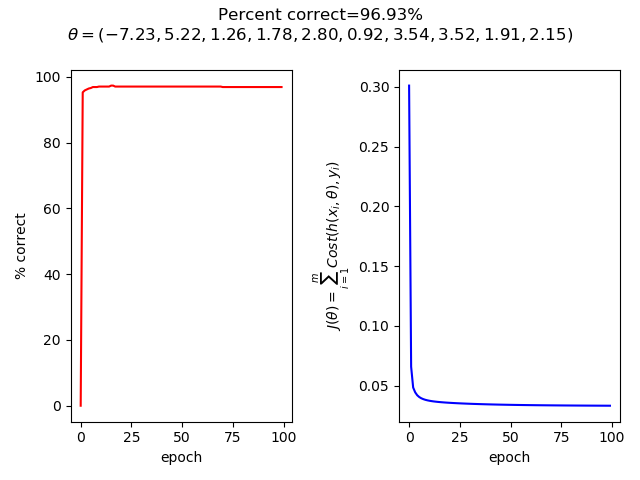
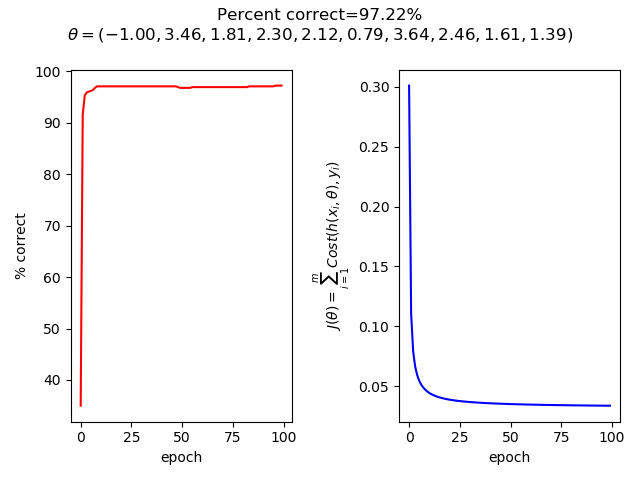
Update files and results.

diff --git a/logregression.py b/logregression.py
@@ -89,6 +89,31 @@ def add_bias_variable(data):
     data['name_to_idx'] = name_to_idx
 
 
+def unit_normalize(data_rows):
+    n = len(data_rows)
+    d = len(data_rows[0])
+
+    ranges = [(mni, mxi - mni) for mxi, mni in zip(
+        [max(data_rows[i][j] for i in range(n)) for j in range(d)],
+        [min(data_rows[i][j] for i in range(n)) for j in range(d)])]
+
+    for i in range(n):
+        for j in range(d):
+            data_rows[i][j] = (data_rows[i][j] - ranges[j][0]) / ranges[j][1]
+
+
+def standardize(data_rows):
+    n = len(data_rows)
+    d = len(data_rows[0])
+
+    mean = [sum([data_rows[i][j] for i in range(0, n)]) / n for j in range(0, d)]
+    variance = [sum([(data_rows[i][j] - mean[j]) ** 2 for i in range(0, n)]) / (n - 1) for j in range(0, d)]
+
+    for i in range(n):
+        for j in range(d):
+            data_rows[i][j] = (data_rows[i][j] - mean[j]) / variance[j]
+
+
 def plot_simple_two_dimensional(log_reg_results, data, class_labels, plot_config):
     fig, subplots = mplpyplot.subplots(1, 3)
     fig.set_size_inches(4 * 2, 3, forward=True)
@@ -153,7 +178,6 @@ def plot_simple_two_dimensional(log_reg_results, data, class_labels, plot_config
                  + '%\n' + '$\\theta=(' + ','.join(['%0.2f' % theta_j for theta_j in final_theta]) + ')$')
 
     fig.savefig(plot_config['output_file_prefix'] + str(int(round(time.time() * 1000))) + ".png")
-
     fig.show()
 
 
@@ -164,7 +188,6 @@ def construct_error_plot(epoch, error_plot, logistic_total_costs):
 
 
 def construct_accuracy_plot(accuracy_plot, epoch, percent_corrects):
-
     accuracy_plot.plot(epoch, percent_corrects, marker='', linestyle='-', color='red')
     accuracy_plot.set_xlabel('epoch')
     accuracy_plot.set_ylabel('% correct')
@@ -228,24 +251,13 @@ def plot_multi_dimensional(log_reg_results, data, class_labels, plot_config):
     accuracy_cost_figure.tight_layout()
     accuracy_cost_figure.subplots_adjust(top=0.855)
     accuracy_cost_figure.suptitle('Percent correct='
-                 + '%0.2f' % (percent_corrects[-1:][0])
-                 + '%\n' + '$\\theta=(' + ','.join(['%0.2f' % theta_j for theta_j in final_theta]) + ')$')
+                                  + '%0.2f' % (percent_corrects[-1:][0])
+                                  + '%\n' + '$\\theta=(' + ','.join(
+        ['%0.2f' % theta_j for theta_j in final_theta]) + ')$')
 
-    accuracy_cost_figure.savefig(plot_config['output_file_prefix'] + '-accuracycost-' + str(int(round(time.time() * 1000))) + ".png")
+    accuracy_cost_figure.savefig(
+        plot_config['output_file_prefix'] + '-accuracycost-' + str(int(round(time.time() * 1000))) + ".png")
     accuracy_cost_figure.show()
-
-
-def unit_normalize(data_rows):
-    n = len(data_rows)
-    d = len(data_rows[0])
-
-    ranges = [(mni, mxi - mni) for mxi, mni in zip(
-        [max(data_rows[i][j] for i in range(n)) for j in range(d)],
-        [min(data_rows[i][j] for i in range(n)) for j in range(d)])]
-
-    for i in range(n):
-        for j in range(d):
-            data_rows[i][j] = (data_rows[i][j] - ranges[j][0]) / ranges[j][1]
 
 
 def main():

diff --git a/README.md b/README.md
@@ -116,7 +116,7 @@ I generated some simple two dimensional data that was linearly seperable (see 2d
 ![results](results/2d_2.png "2D Example 2")
 
 ## Wisconsin Breast Cancer Data (Original)
-The [wisconsin breast cancer data set](https://archive.ics.uci.edu/ml/datasets/breast+cancer+wisconsin+(original)) is a well known data set in the machine learning literature, and has been used by several authors when [evaluating a logistic regression](https://www.kaggle.com/zzero0/logisticregression-on-breast-cancer-dataset). In hindsight this data set is not particularly suited to logistic regression (the values in the data are more ordinal in nature, and not real values). The results presented here show the raw data including a histogram of each dimension of the data, and a scatter plot for each pair of dimensions. In the scatter plot red/green dots show the two class labels, and the relative saturation of the data point gives some idea of frequency.
+The [wisconsin breast cancer data set](https://archive.ics.uci.edu/ml/datasets/breast+cancer+wisconsin+(original)) is a well known data set in the machine learning literature, and has been used by several authors when [evaluating a logistic regression](https://www.kaggle.com/zzero0/logisticregression-on-breast-cancer-dataset). In hindsight this data set is not particularly suited to logistic regression (the values in the data are more ordinal in nature, and not real values). The results presented here show the raw data scaled using the min/max scheme in a histogram for each dimension, and a scatter plot for each pair of dimensions. In the scatter plot red/green dots show the two class labels, and the relative saturation of the data point gives some idea of frequency. The accuracy plot shows results from data that was scaled using z-score like approach to scaling, see [here](https://en.wikipedia.org/wiki/Feature_scaling) for more details.
 ![results_wd](results/wisconsin_data.png "Wisconsin Data")
 ![results_a](results/wisconsin-accuracycost.png "Wisconsin")
 
